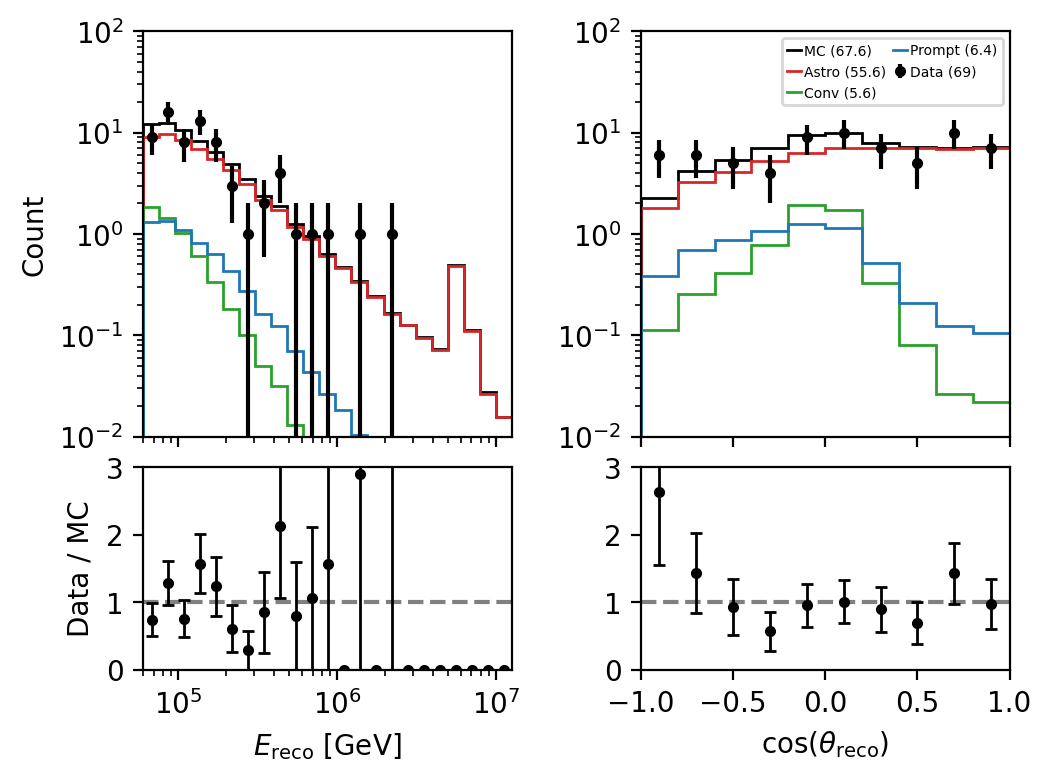
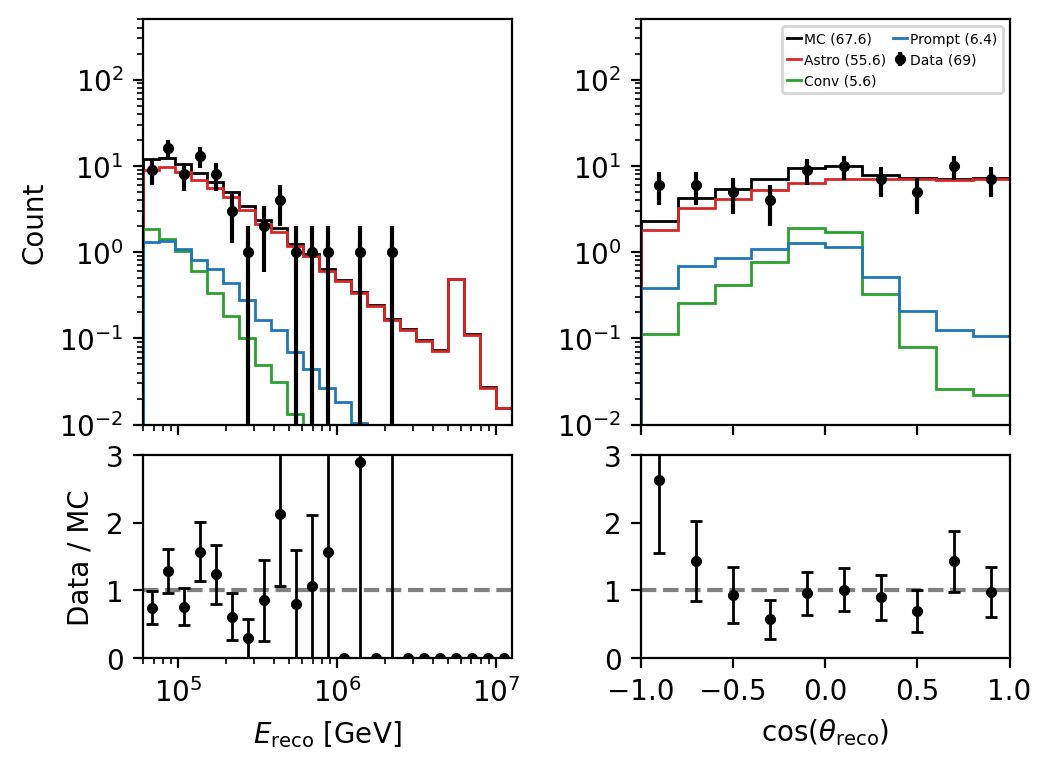
update:

diff --git a/NNMFit/notebooks/unblind/step2_hese_flavor_reunblind/plot_configs.py b/NNMFit/notebooks/unblind/step2_hese_flavor_reunblind/plot_configs.py
@@ -24,8 +24,8 @@ _CASCADES_SPEC = {
         "reco_zenith": np.linspace(-1, 1, 11),
     },
     "dim_info": {
-        "reco_energy": {"log_x": True,  "log_y": True, "x_label": r"$E_{\mathrm{reco}}$ [GeV]",      "sum_axes": 1, "flip": False, "ylim": (1e-2, 1e2)},
-        "reco_zenith": {"log_x": False, "log_y": True, "x_label": r"$\cos(\theta_{\mathrm{reco}})$", "sum_axes": 0, "flip": True,  "ylim": (1e-2, 1e2)},
+        "reco_energy": {"log_x": True,  "log_y": True, "x_label": r"$E_{\mathrm{reco}}$ [GeV]",      "sum_axes": 1, "flip": False, "ylim": (1e-2, 5e2)},
+        "reco_zenith": {"log_x": False, "log_y": True, "x_label": r"$\cos(\theta_{\mathrm{reco}})$", "sum_axes": 0, "flip": True,  "ylim": (1e-2, 5e2)},
     },
     "plot_components": True,
 }
